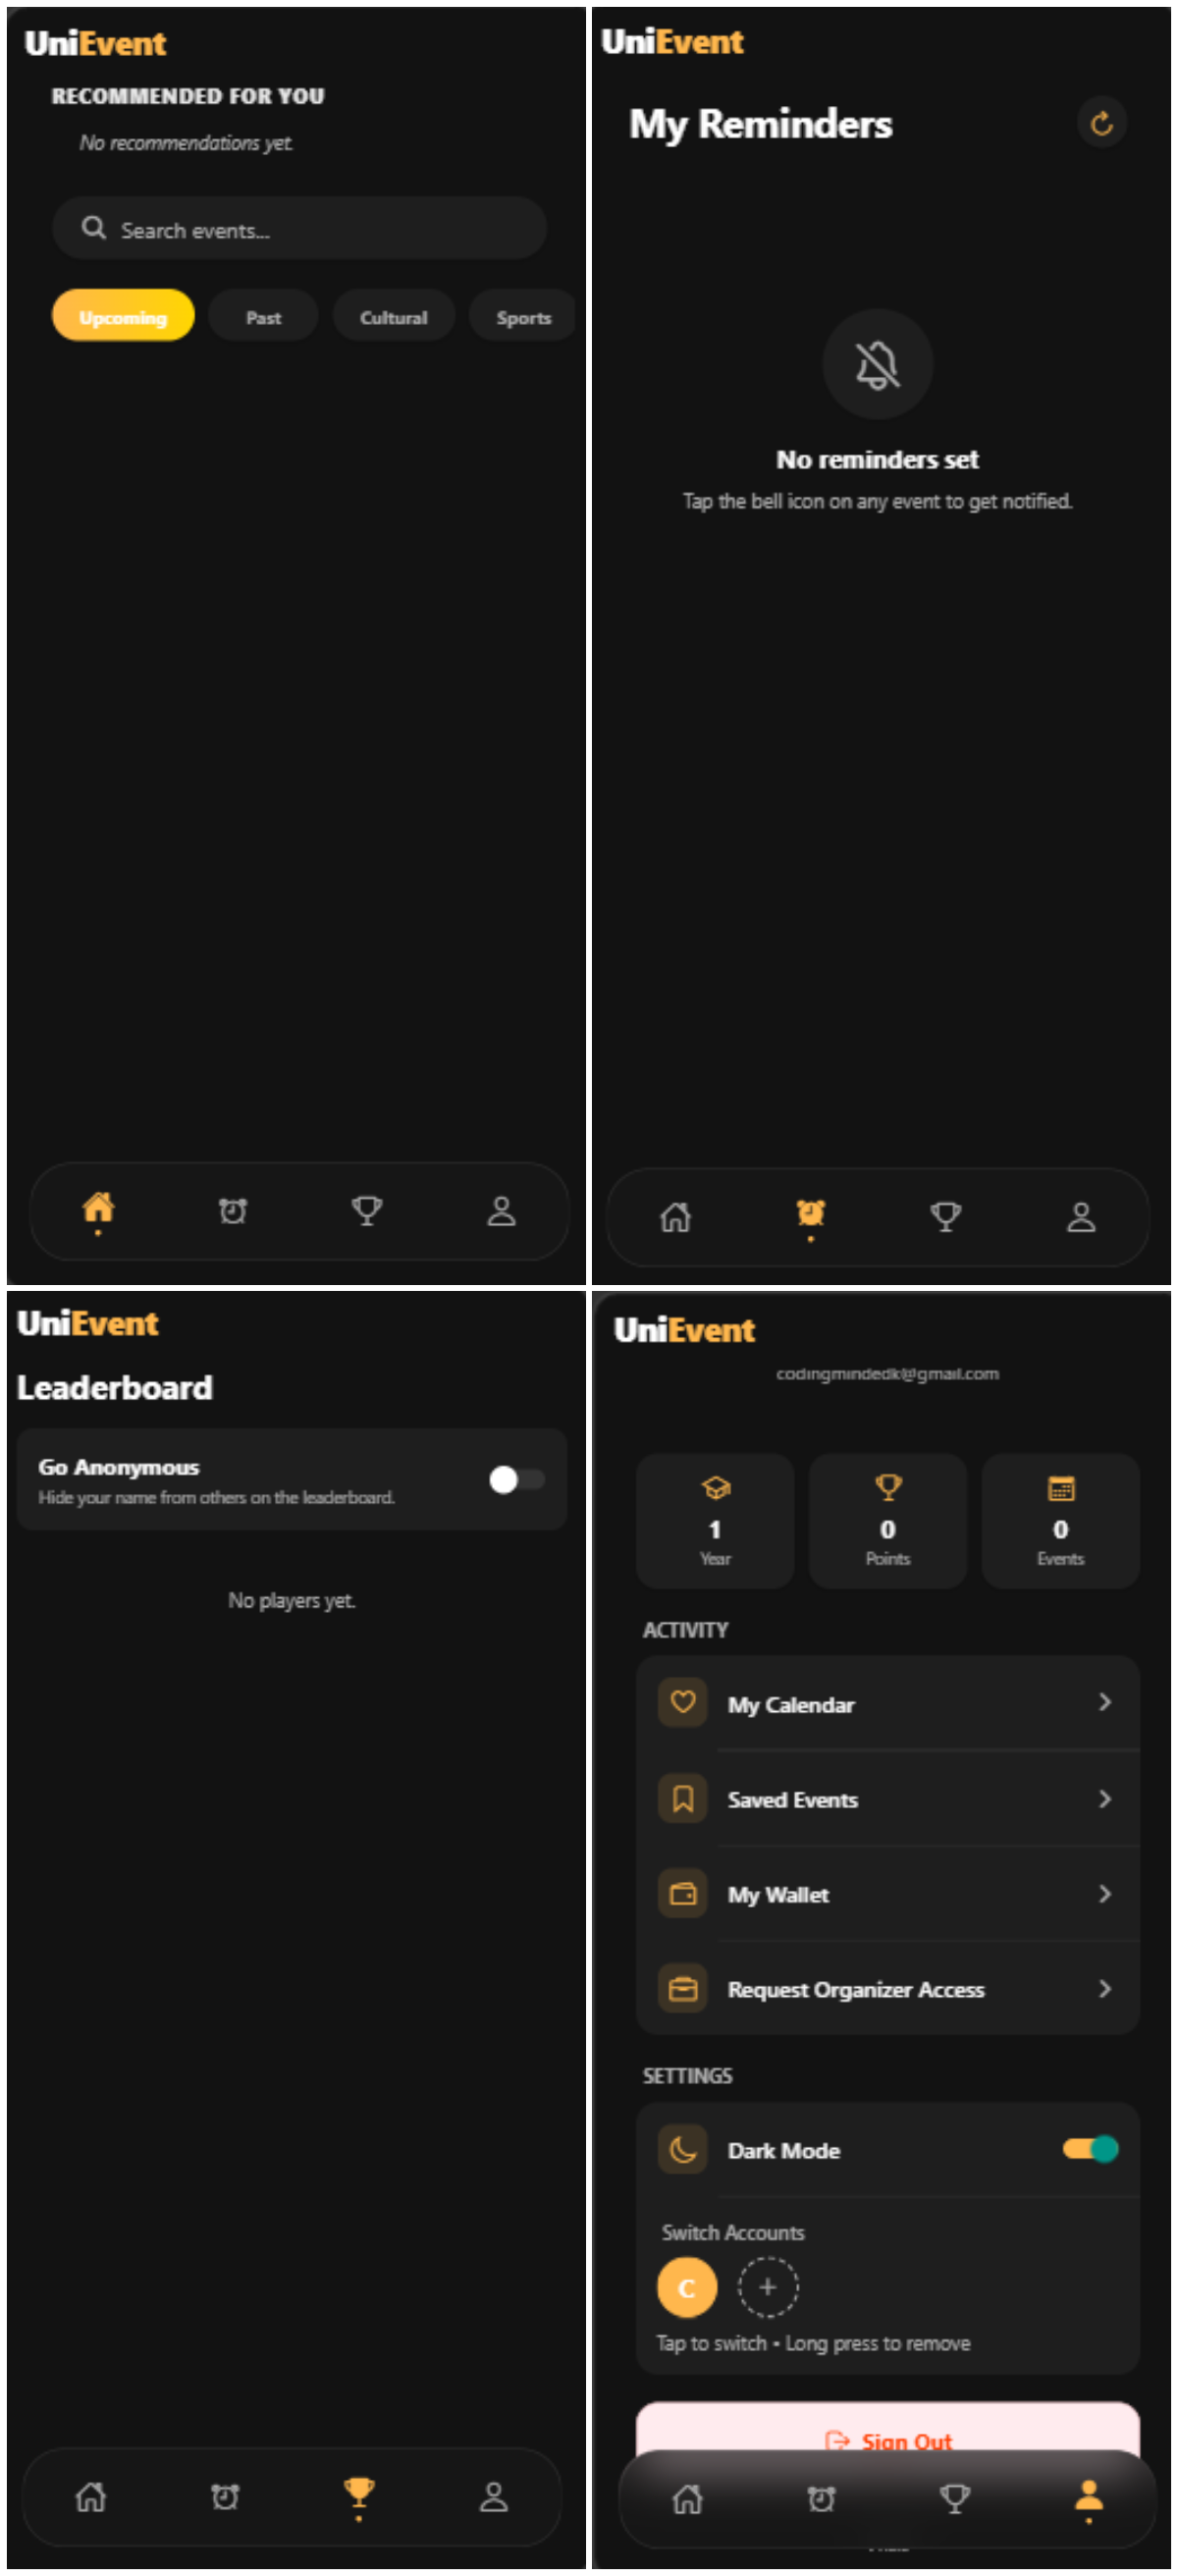
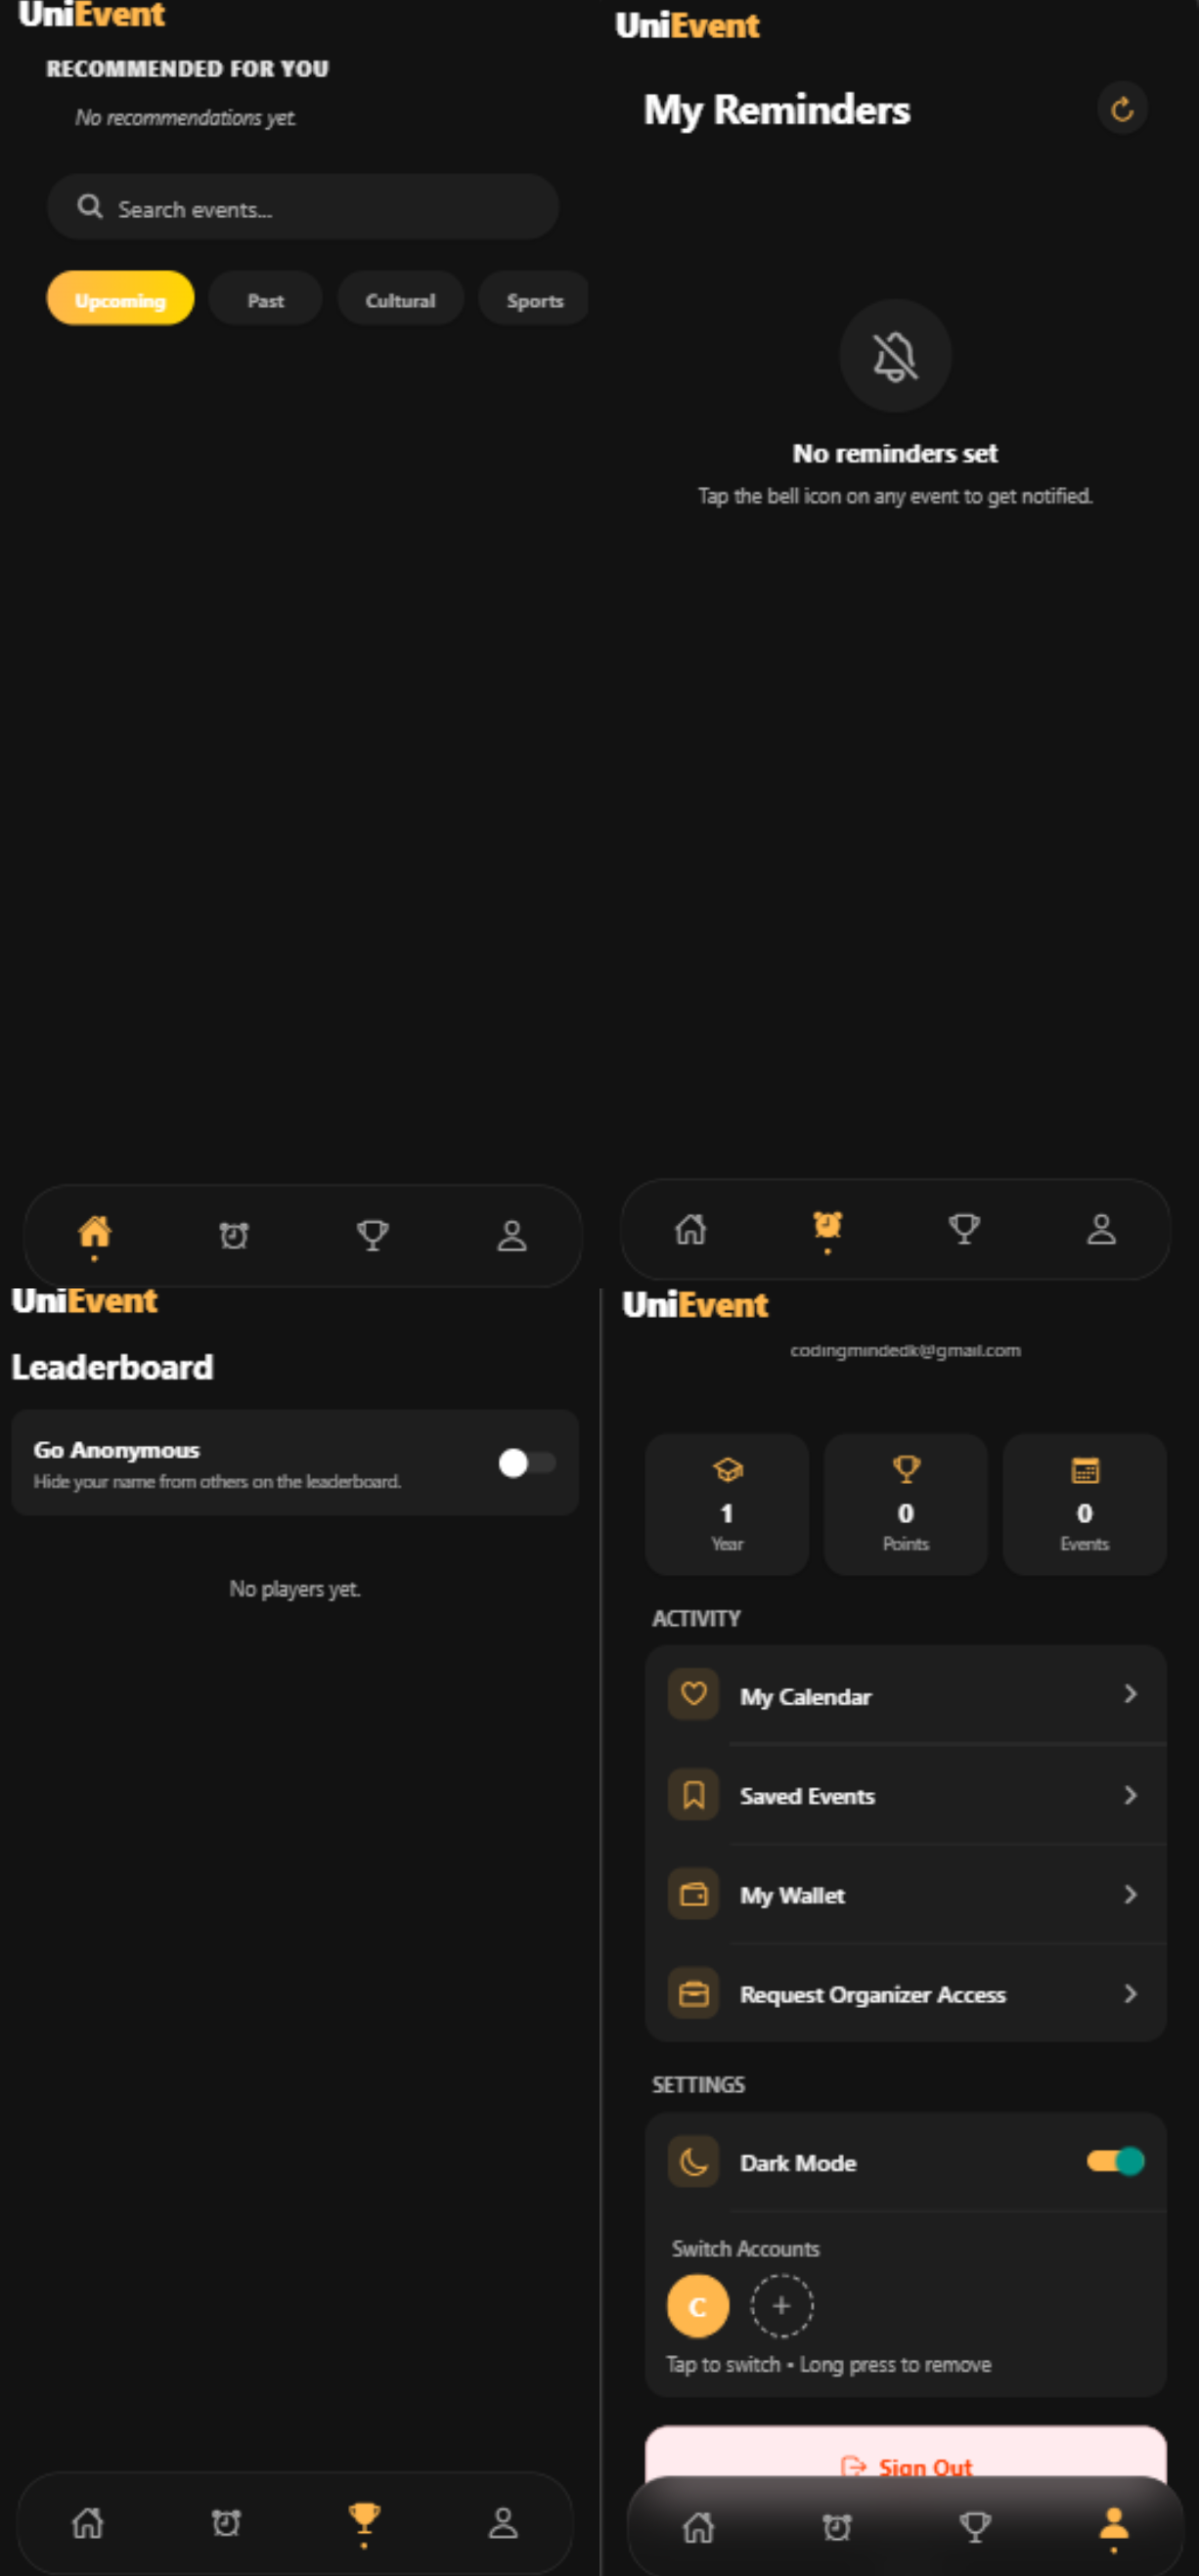
Finalized Changes

diff --git a/docs/Expanded_Project_Structure.md b/docs/Expanded_Project_Structure.md
@@ -19,12 +19,6 @@ Uni-Event
 │   ├── 📄 pre-commit
 │   └── 📄 pre-push
 ├── 📁 app
-│   ├── 📁 %ProgramData%
-│   │   └── 📁 Microsoft
-│   │       └── 📁 Windows
-│   │           └── 📁 UUS
-│   │               └── 📁 State
-│   │                   └── 📄 _active.uusver
 │   ├── 📁 .expo
 │   │   ├── 📁 web
 │   │   ├── 📝 README.md